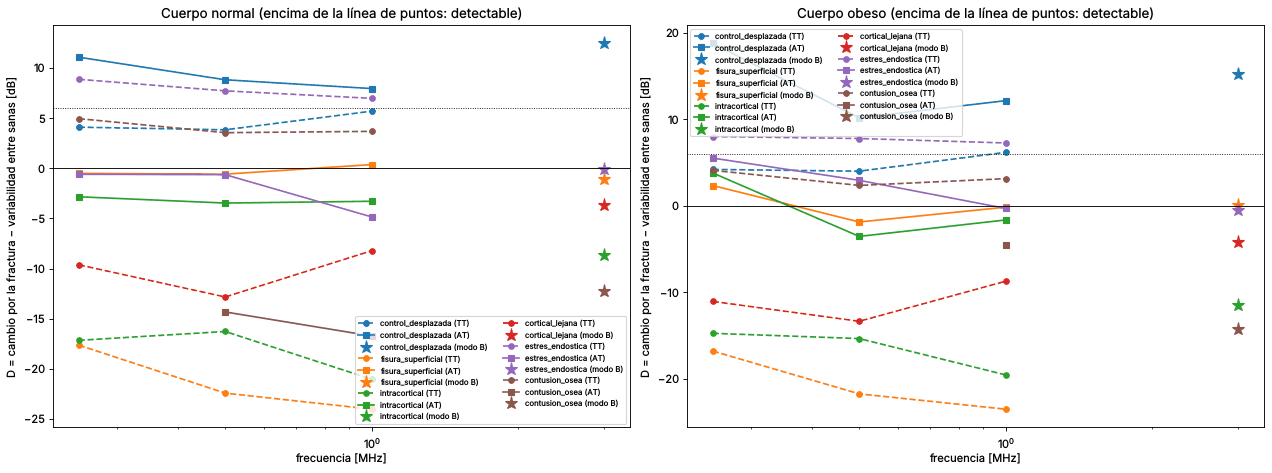
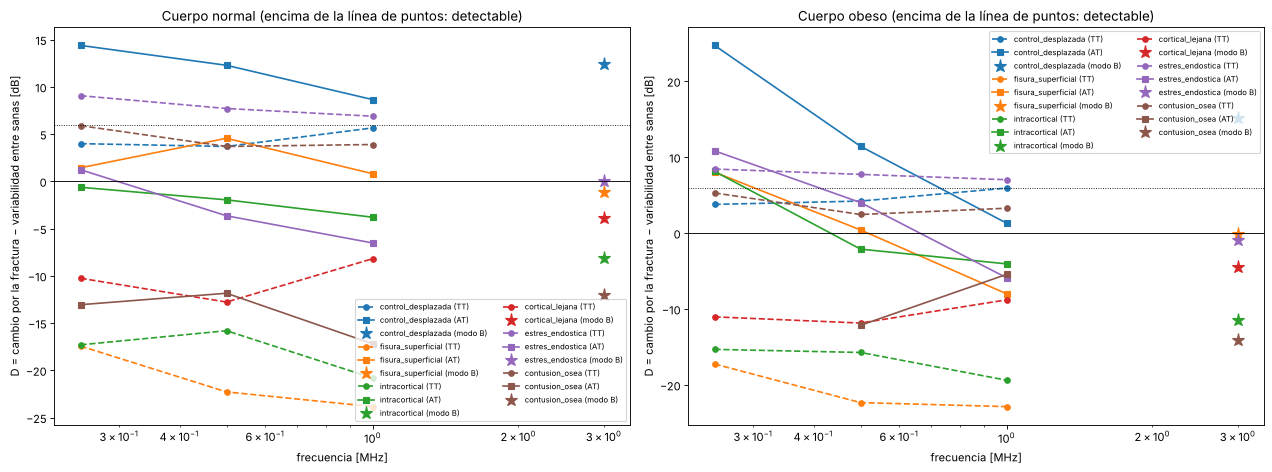
Regenerar el ejemplo 11 con 2 mecanismos de atenuación y actualizar su tabla
Con el valor por defecto nuevo las conclusiones no cambian en el cuerpo
normal; se anota el resultado aislado de la AT a 0.25 MHz en el cuerpo obeso.

Claude-Session: https://claude.ai/code/session_01VRcYrGfB76ppRoqGgnnp12

diff --git a/README.md b/README.md
@@ -161,8 +161,6 @@ fractura con su edema y hematoma cambia el campo una mediana de 1.5 dB a
 
 ### Fracturas internas: ¿las ven las frecuencias bajas?
 
-> Las cifras y la figura de esta sección corresponden al modelo anterior de 1 mecanismo de atenuación (no se regeneró el ejemplo 11 con el valor por defecto actual de 2 mecanismos).
-
 ![Detección de fracturas internas](docs/img/11_resumen.png)
 
 `11_fracturas_internas_baja_frecuencia.py` compara la ecografía (3 MHz) con
@@ -174,10 +172,15 @@ fractura la diferencia entre dos piernas sanas (D ≥ 6 dB = detectable).
 
 | Lesión | Ecografía 3 MHz | Baja frecuencia |
 |---|---|---|
-| Fractura desplazada 1 mm (control) | sí (D ≈ +13 dB) | sí en AT (+8 a +19 dB) |
-| Grieta intracortical o de la cortical lejana | no | no (D entre −3 y −21 dB) |
+| Fractura desplazada 1 mm (control) | sí (D ≈ +13 dB) | sí en AT (+9 a +14 dB) |
+| Grieta intracortical o de la cortical lejana | no | no (D entre −1 y −21 dB) |
 | Fractura por estrés con reacción endóstica | no | **sí en TT** (+7 a +9 dB): la señal llega ~0.45 µs antes |
-| Contusión ósea (edema trabecular) | no | dudoso en TT (+2 a +5 dB) |
+| Contusión ósea (edema trabecular) | no | dudoso en TT (+4 a +6 dB) |
+
+Cifras del cuerpo normal. En el cuerpo obeso, la AT a 0.25 MHz da D ≈ +8 dB para la
+fisura superficial y la grieta intracortical, pero sólo a esa frecuencia (a 0.5 y
+1 MHz, entre +0.4 y −8 dB) y con una sola pareja de piernas sanas de referencia:
+no basta para darlo por detección.
 
 Conclusión: ninguna técnica distingue la **grieta** interna en sí, porque
 mide 0.1-0.3 mm, mucho menos que la longitud de onda (6 mm a 0.25 MHz), y
